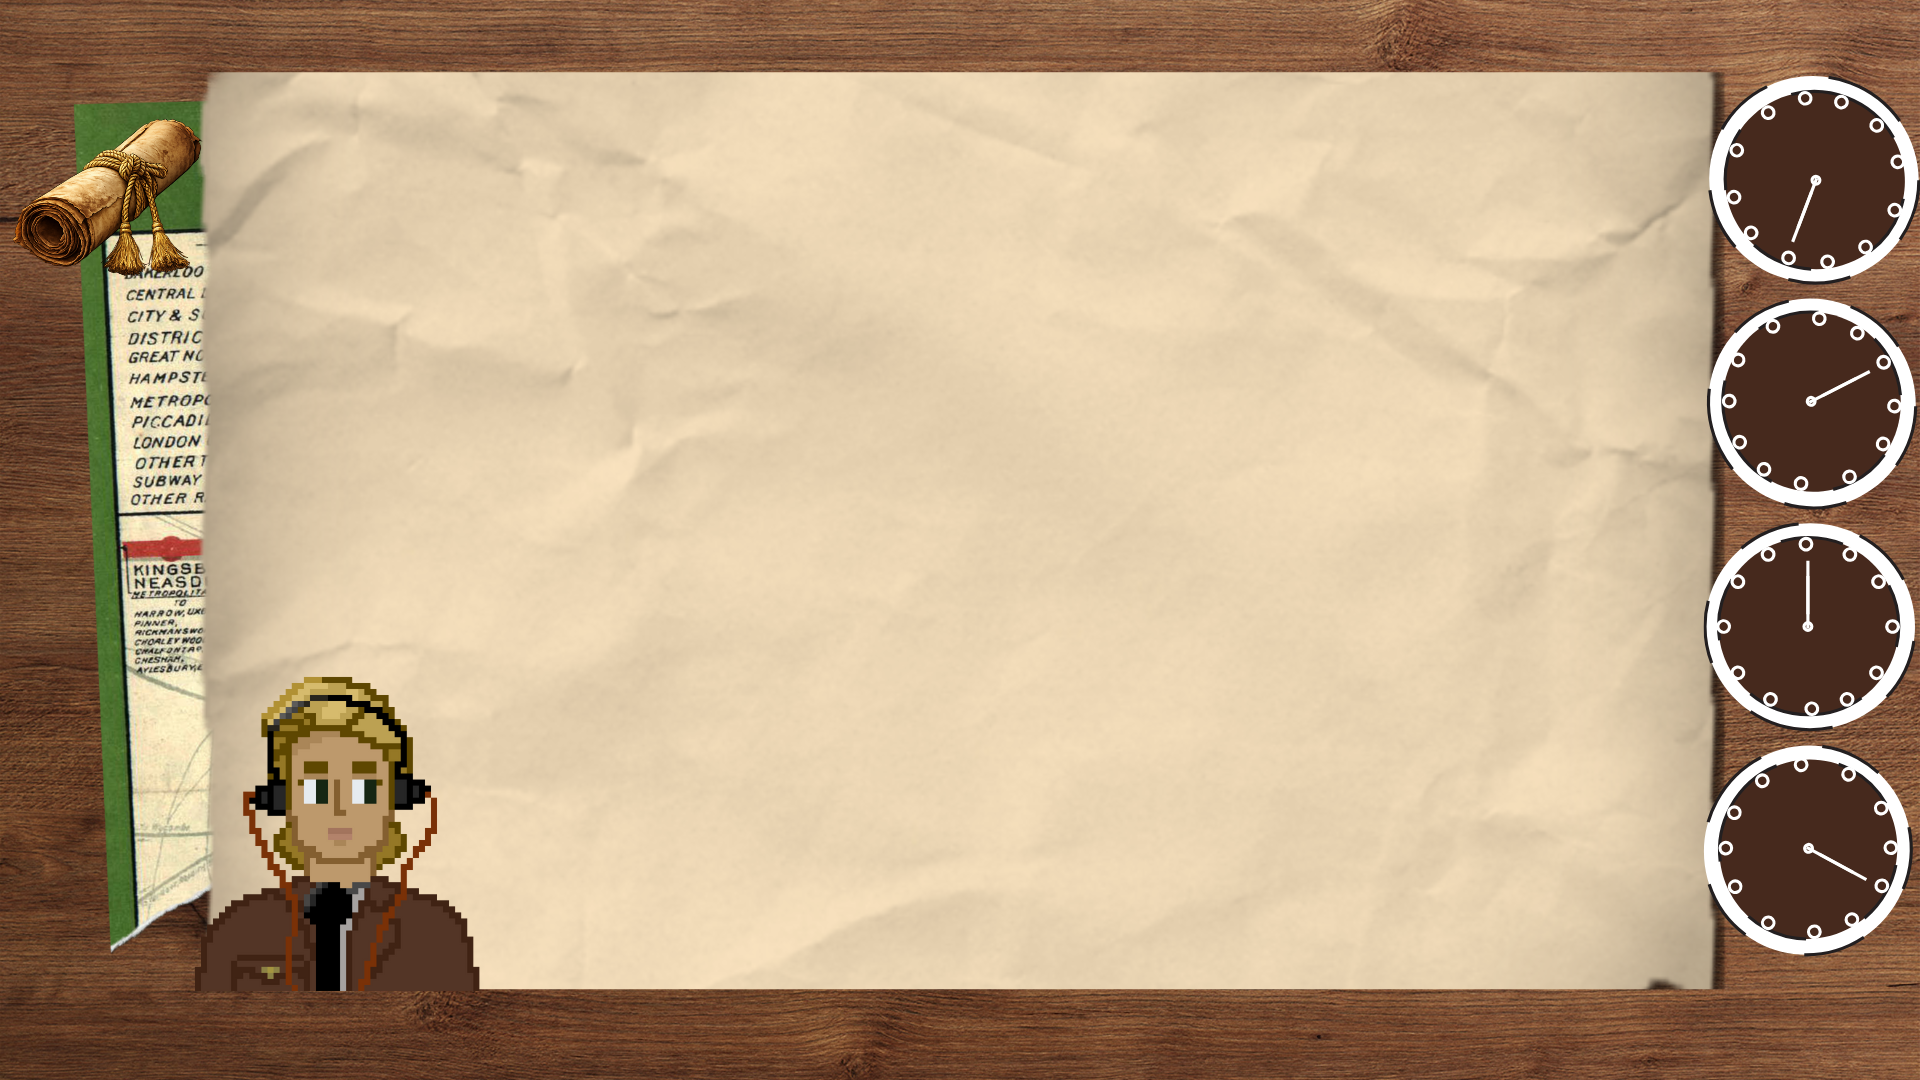
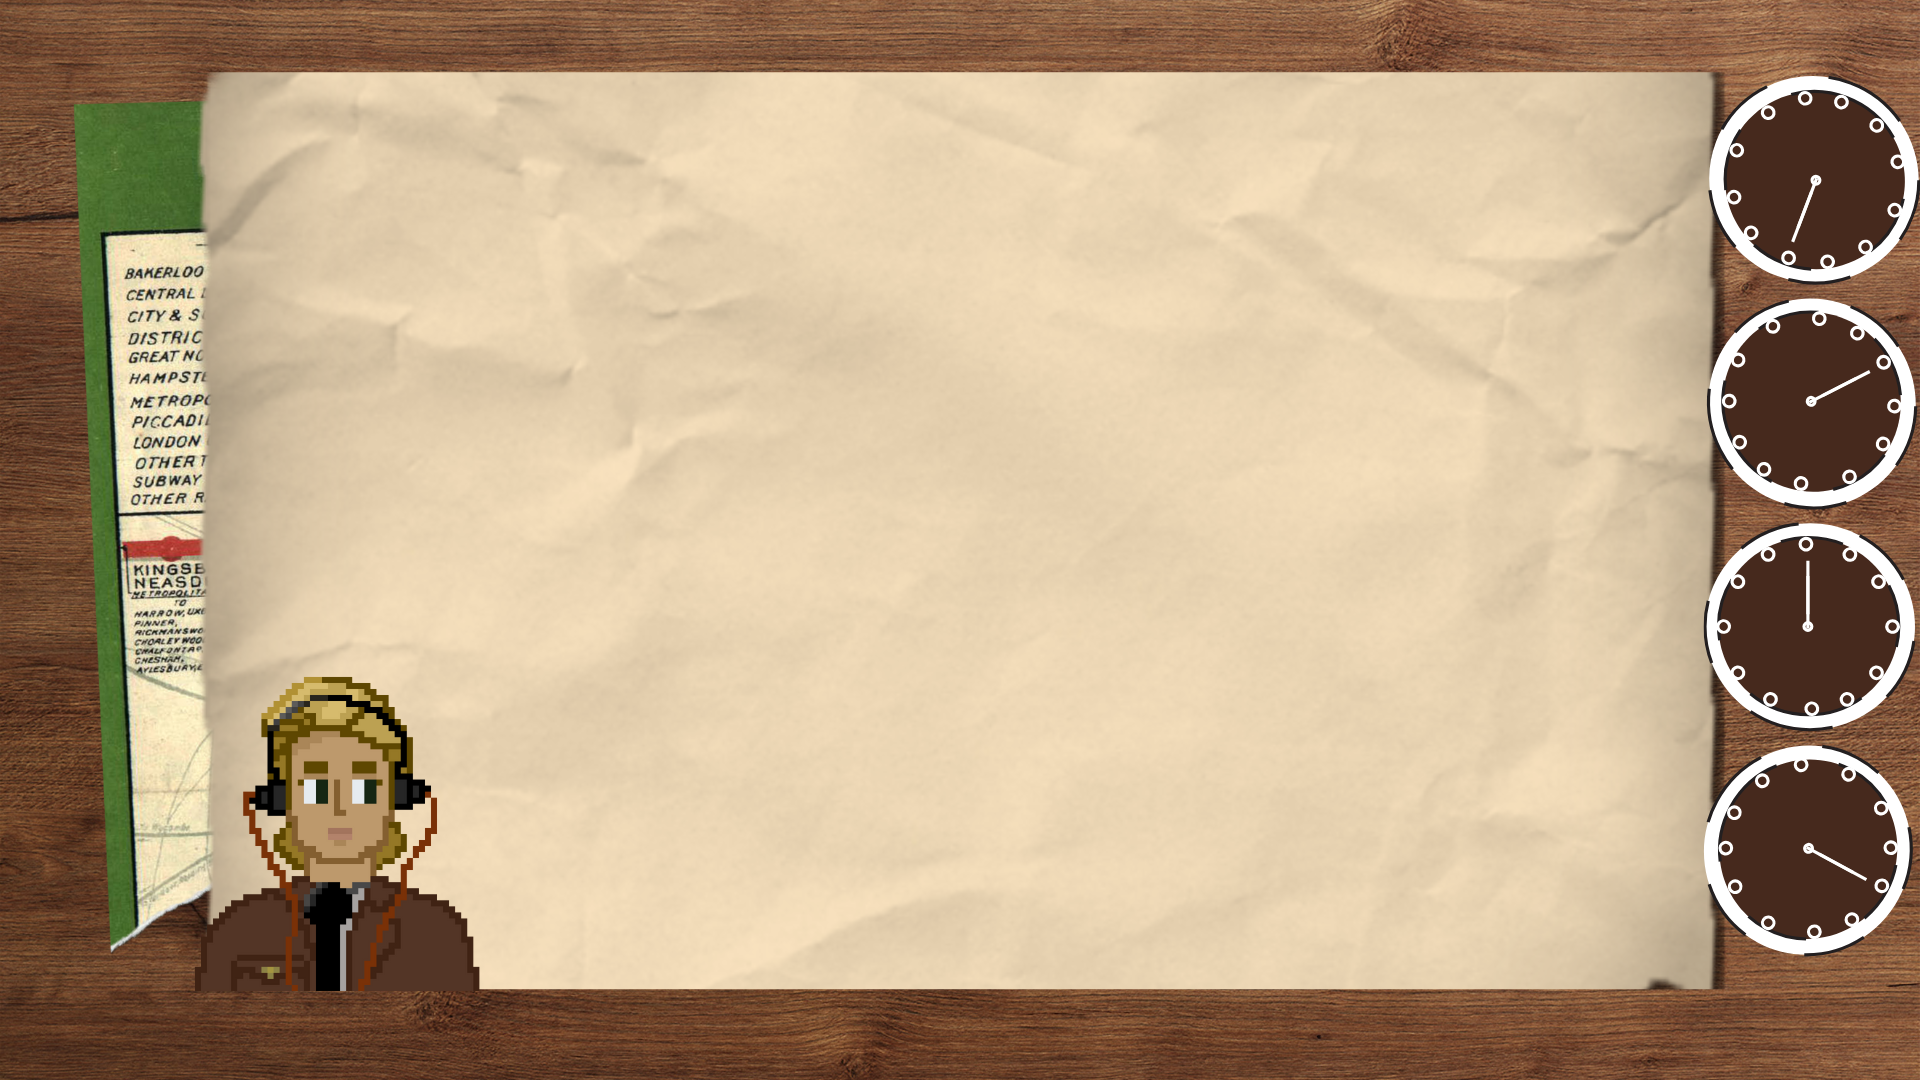
upated gamepage to temporary bg

Changed region(s): [[0.0, 0.0917, 0.125, 0.275]]

diff --git a/game_process.py b/game_process.py
@@ -229,14 +229,6 @@ def run_game(difficulty="easy"):
         # menu if paused
         resume_rect = back_rect = None
         if paused:
-<<<<<<< HEAD
-            resume_butt, back_butt = draw_pause()
-            if resume_butt:
-                paused = False
-            if back_butt:
-                check_high_score(score, difficulty)
-                return "back" 
-=======
             resume_rect, back_rect = draw_pause_menu()
 
         # gameplay only if not paused
@@ -244,7 +236,6 @@ def run_game(difficulty="easy"):
             if new_level:
                 word_objects = generate_level(words_src, speed_range, score)
                 new_level = False
->>>>>>> 06b8aa3efc2565073467422a5a7f4ddbbabf2d79
 
             for w in list(word_objects):
                 w.draw(active_string)
